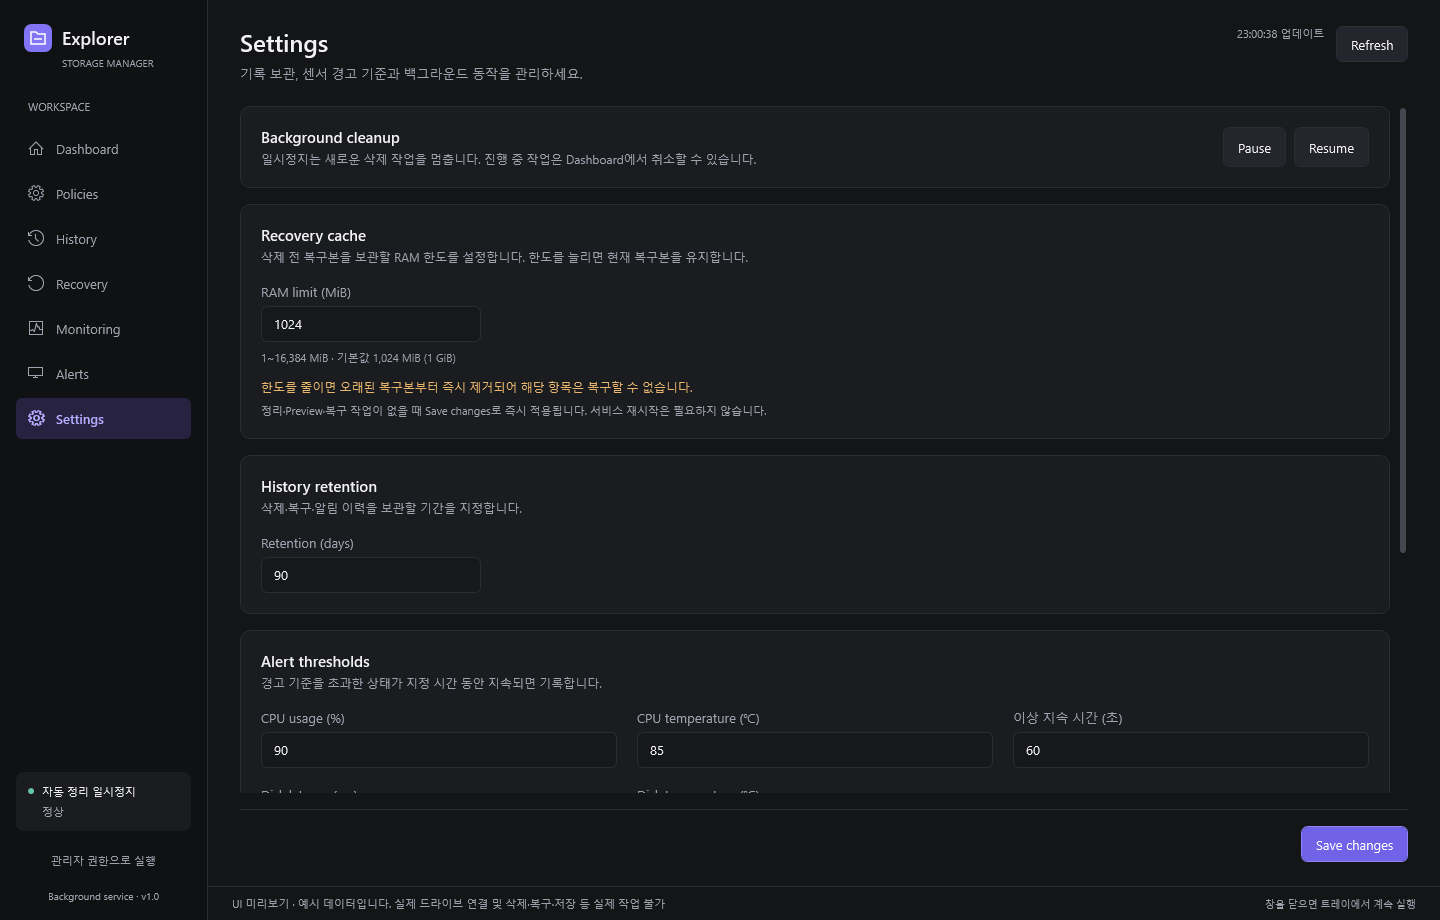
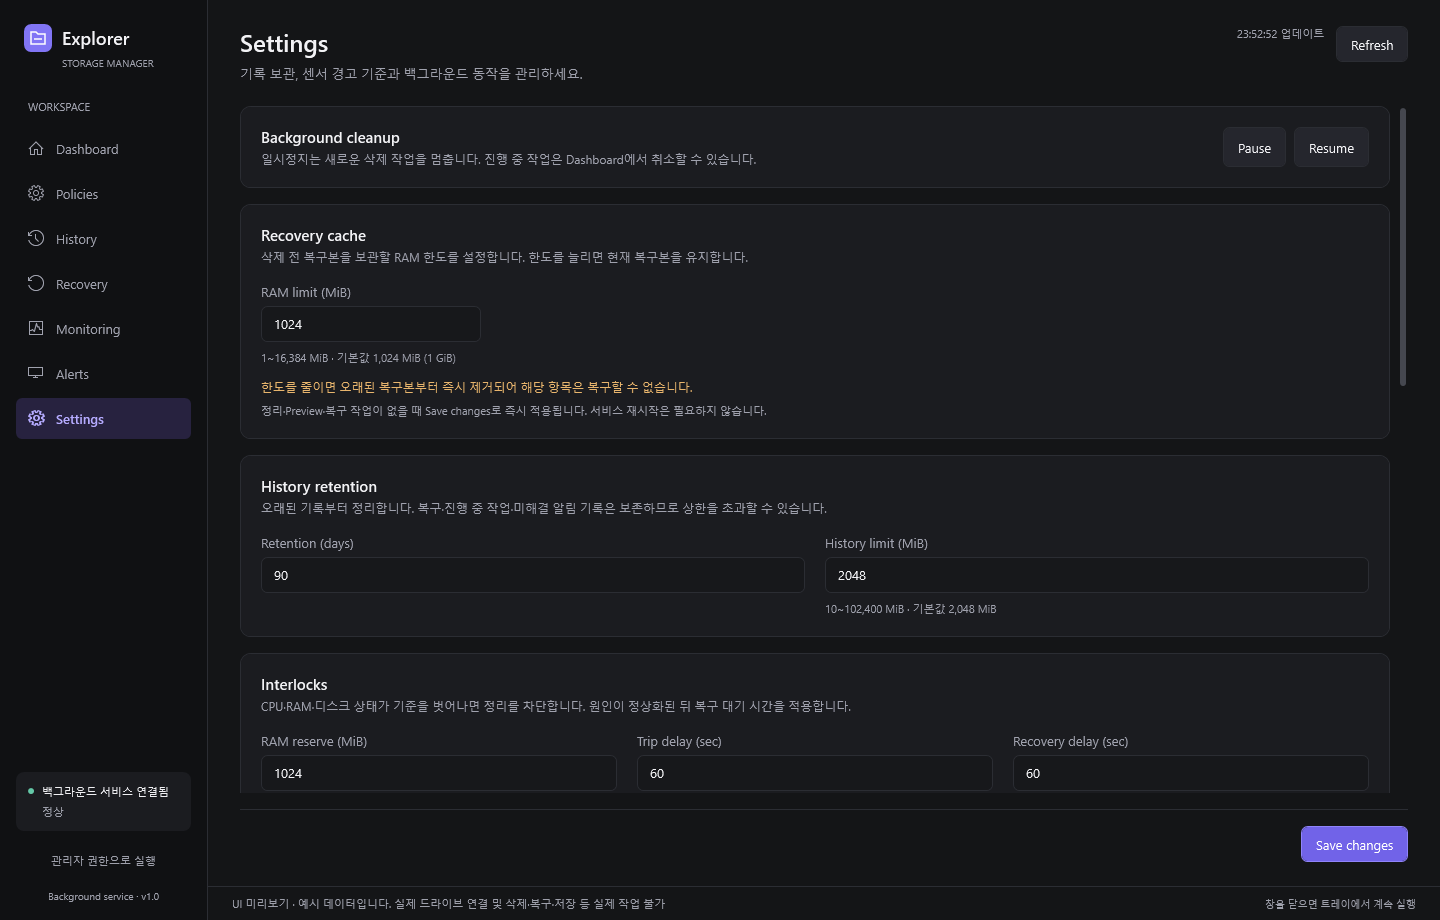
Document verified operator options, interlocks and native Windows results [skip ci]

diff --git a/docs/implementation-status.md b/docs/implementation-status.md
@@ -1,12 +1,12 @@
 # Explorer Manager 구현과 검증 현황
 
-핵심 기능, WPF, Windows Service, SensorHost, 로컬 인증 IPC, SQLite 이력, 설치/제거, CI를 구현했습니다. 솔루션의 앱·라이브러리·시험을 모두 기존 .NET Framework 4.8 프로젝트로 통일하고 .NET 8 SDK 고정과 멀티타깃을 제거했습니다. 전체 자동 시험은 112개이며 Windows에서 모두 실행합니다. .NET SDK 경로를 비활성화한 빌드, WPF 디자인 시점 평가, 설치된 서비스와 WPF 7개 화면의 실제 통신·렌더링·제거 연동 시험을 수행합니다. 최신 결과는 저장소 Actions의 해당 커밋을 기준으로 확인합니다.
+핵심 기능, WPF, Windows Service, SensorHost, 로컬 인증 IPC, SQLite 이력, 설치/제거, CI를 구현했습니다. 솔루션의 앱·라이브러리·시험을 모두 기존 .NET Framework 4.8 프로젝트로 통일하고 .NET 8 SDK 고정과 멀티타깃을 제거했습니다. 전체 자동 시험은 185개이며 Windows에서 모두 실행합니다. .NET SDK 경로를 비활성화한 빌드, WPF 디자인 시점 평가, 설치된 서비스와 WPF 7개 화면의 실제 통신·렌더링·제거 연동 시험을 수행합니다. 최신 결과는 저장소 Actions의 해당 커밋을 기준으로 확인합니다.
 
 UI는 좌측 탐색, 드라이브 카드, 용량 단위 표시, 구역별 정책 편집, 복구·알림 상세, 단위와 축이 있는 모니터링 차트로 개편했습니다. 공용 XAML 디자인 토큰과 컨트롤 템플릿을 사용하며 새로운 런타임 의존성은 없습니다. 미지원 측정값과 연결 실패를 구분하고 누락된 차트 표본은 선으로 연결하지 않습니다. 렌더 검사는 실제 서비스 연동 화면과 외부 작업을 차단한 예시 화면을 각각 1440×920 및 1120×720에서 캡처하고 바인딩 오류를 검사합니다.
 
 폴더 단위 정리는 가장 오래된 대상이 있는 Root 바로 아래 폴더를 먼저 처리하고, 목표 공간 도달 후 현재 폴더의 삭제 가능 대상과 비게 된 오래된 하위 폴더까지 처리한 뒤 중단합니다. 취소·안전 제한은 즉시 우선 적용하며 정확한 경로 재시도는 주변 항목을 처리하지 않습니다. [검증 결과](04-report/folder-cleanup.report.md).
 
-Settings에서 전역 복구 캐시를 1~16384 MiB로 지정하고 작업이 없을 때 재시작 없이 적용할 수 있습니다. 증가 시 기존 복구본을 유지하고 감소 시 초과분만 FIFO로 퇴출합니다. [검증 결과](04-report/cache-options.report.md). 추가 운영 옵션은 [우선순위 제안](01-plan/features/operator-options.plan.md)에 정리했으며 아직 구현 범위에 포함하지 않았습니다.
+Settings에서 전역 복구 캐시를 1~16384 MiB로 지정하고 작업이 없을 때 재시작 없이 적용할 수 있습니다. 증가 시 기존 복구본을 유지하고 감소 시 초과분만 FIFO로 퇴출합니다. [검증 결과](04-report/cache-options.report.md). 승인한 최소 여유 RAM·알림 방식/빈도·요일/분 스케줄·이력 용량 옵션을 모두 구현했고, 상태와 차단 사유, 회복 대기, 수동 Reset, 실행 중 앱 차단과 재시작 후 래치를 제공하는 Interlocks를 추가했습니다. [검증 결과](04-report/operator-interlocks.report.md).
 
 대상은 로컬 NTFS 일반 파일입니다. 센서 지원 범위는 장비와 권한에 따라 달라집니다. 코드 서명 인증서, 실제 운영 장비의 센서 정확도, 72시간 연속 운전 및 100만 파일·16볼륨 현장 검증은 배포 환경에서 확인할 항목입니다.
 

diff --git a/docs/04-report/operator-interlocks.report.md b/docs/04-report/operator-interlocks.report.md
@@ -1,0 +1,22 @@
+# Operator options and interlocks report
+
+사용자가 승인한 네 가지 우선순위를 모두 구현하고 내부 리소스·실행 중 앱 Interlock을 추가했습니다.
+
+| 옵션 | 제공 기능 |
+| --- | --- |
+| 최소 여유 RAM | Settings RAM reserve (MiB), 기본1024 MiB, 부족 감지 즉시 차단 |
+| 알림 방식/간격 | Popup / Tray notification / Log only, 기본300초, 여러 잠금 알림 묶기와 누적 팝업 억제, 로그/Alerts 유지 |
+| 실행 요일/시간 | 월~일 선택, HH:mm, 종료24:00, 자정 이후 시작 요일 기준, 기존 JSON 호환 |
+| 이력 용량 | 기본2048 MiB, 기간+용량 정리, 하향 저장 시 유지 작업, 진행/복구/미해결 기록 보호 |
+
+Interlocks는 CPU·CPU/디스크 온도·활성 I/O 지연의 지속 감지, 즉시 RAM 차단, 지정 앱 실행/조회 불가 차단, 측정 신선도, 디스크 Critical, 감사/캐시 설정 불일치를 표시합니다. 리소스는 안정 회복 대기와 선택적 수동 Reset을 지원하고 래치는 서비스 재시작 뒤에도 유지합니다. 누락/미지원/비정상 측정과 아직 위험한 Pending/Tripped/Recovering 조건으로 Reset할 수 없습니다.
+
+Reset과 수동 Pause/Resume는 별개입니다. Resume는 감사 오류를 해제하지 않으며, 감사 오류 Reset은 실제 durable 감사 쓰기를 확인합니다. Critical 저장장치 알림·프로세스·측정 차단도 Reset으로 우회할 수 없습니다. 감시 중인 작업의 CTS 세대를 확인하는1초 watchdog이 진행 중인 캐시 복사를 취소하고, 엔진은 부분 캐시를 제거하며 원본 보존과 차단 종료 사유를 기록합니다. 파일별 삭제 직전 검증은 그대로 유지합니다. 복구 작업은 별도 실행으로 제공합니다.
+
+모든 설정 변경은 전체 설정 스냅샷과 함께 감사 DB에 기록합니다. 리소스·앱·측정 중단·감사 오류의 차단/해제 및 운영자 Reset을 기록합니다. 보관 상한을 보호 기록 때문에 지킬 수 없으면 HistoryLimitProtected 이벤트를 남깁니다. 외부 PLC/설비 프로토콜은 연결 요구사항을 정의하지 않은 상태이며 현재 구현 범위는 내부 리소스/앱 조건입니다.
+
+검증한 코드: `75931e3b2185397dfc07e9fabba9512f20b0a61d`. [Windows CI](https://github.com/dmjeong/HardDisk-Manager/actions/runs/39874432958)에서185개 테스트를 모두 실행해 성공했습니다. .NET SDK 경로를 비활성화한 Framework4.8 빌드, 실제 NTFS 파일 보호, 운영 중 앱 차단에 의한 느린 RAM 복사 취소, 실제 SQLite DeleteIntent 오류와 감사 복구, 설정 범위/재시작, Visual Studio WPF 디자인 참조, 서비스 설치·인증 IPC·제거까지 통과했습니다. 실제/예시 데이터와 기본/최소 크기의 WPF 화면29장, 바인딩 오류0건을 확인했습니다.
+
+[Dashboard](../images/overview.png), [Settings](../images/settings.png), [운영 매뉴얼](../operations.md). 패키지는 CI ExplorerManager-win-x64 artifact와 로컬 `artifacts/ExplorerManager-win-x64.zip`에 있습니다.
+
+운영 장비별 센서 지원과 장시간·대규모 HDD 부하 검증은 기존 현장 인수 범위로 유지합니다. 중단/해제 판단은 측정 주기와 설정한 지속/회복 시간에 따릅니다.

diff --git a/docs/operations.md b/docs/operations.md
@@ -65,7 +65,7 @@ Dashboard의 Interlocks는 각 조건의 Clear/Pending/Tripped/Recovering/Awaiti
 
 Recovery delay(기본60초)는 안전한 측정이 연속으로 유지되어야 하는 시간입니다. 수동 Reset 옵션이 켜져 있으면 AwaitingReset에서 운영자가 Reset interlocks를 실행합니다. Pending 위험, 아직 진행 중인 위험, 회복 대기, 트립 후 미지원/누락 측정은 Reset할 수 없습니다. 래치는 서비스 재시작에도 유지됩니다. Pause는 별개이며 Reset은 Pause를 해제하지 않고 Resume는 리소스/프로세스/디스크 차단을 해제하지 않습니다.
 
-감사 오류는 원인을 해결하고 Reset할 때 실제 감사 기록 쓰기를 검증합니다. 저장된 캐시 크기와 실행 크기가 다르면 Reset도 거부하고 서비스 재시작을 요구합니다. Critical 디스크 알림은 별도로 원인을 확인한 뒤 Acknowledge하며 실제 위험 측정이 남으면 계속 차단됩니다. InterlockTripped/InterlockCleared/InterlocksReset 전이는 감사 DB에 기록합니다. 현재 폴더 완료 규칙보다 Interlock이 우선하며 진행 중인 RAM 복사는 취소하고 원본을 보존합니다.
+감사 오류는 원인을 해결하고 Reset할 때 실제 감사 기록 쓰기를 검증합니다. 저장된 캐시 크기와 실행 크기가 다르면 Reset도 거부하고 서비스 재시작을 요구합니다. Critical 디스크 알림은 별도로 원인을 확인한 뒤 Acknowledge하며 실제 위험 측정이 남으면 계속 차단됩니다. InterlockTripped/InterlockCleared/InterlocksReset 전이는 감사 DB에 기록합니다. 현재 폴더 완료 규칙보다 Interlock이 우선하며 진행 중인 RAM 복사는 취소하고 원본을 보존합니다. 차단으로 끝난 작업은 그 자리에서 자동 재개하지 않으며, 조건 해소 후 정책 점검 주기·쿨다운에 따라 새 작업으로 스캔합니다.
 
 앱 차단 목록은 실행 파일 이름(.exe)으로 입력합니다. 해당 이름의 프로세스가 하나라도 실행 중이면 차단하고 상태 조회 실패도 차단합니다. 프로세스를 종료하지는 않습니다. 외부 PLC/설비 프로토콜은 연결 사양을 정의하지 않았으며 현재 기능은 서비스 내부 리소스·앱 조건입니다.
 

diff --git a/docs/03-analysis/operator-interlocks.analysis.md b/docs/03-analysis/operator-interlocks.analysis.md
@@ -10,4 +10,6 @@
 | Persistence and history | Existing settings+audit transaction; history purges onlyeligible records/metrics/acknowledged alerts; recovery/intents/unresolved alerts protected and overage logged |
 | MVVM/Framework | Current Domain/Application/Contracts/Infrastructure/Client/Presentation/tests compile against net48/C#7.3; portable pure interlock/policy/presentation tests passed |
 
-Windows native runtime and service/WPF CI is pending. External PLC/device protocols have not been invented; present interlocks use internal resource/app conditions.
+Windows native runtime and service/WPF CI passed: 185/185 tests, 29 rendered WPF images, zero binding errors. External PLC/device protocols have not been invented; present interlocks use internal resource/app conditions.
+
+Verified code `75931e3b2185397dfc07e9fabba9512f20b0a61d`: [Windows CI](https://github.com/dmjeong/HardDisk-Manager/actions/runs/39874432958). Native tests include real process blocking during a throttled RAM copy, audit-write failure/recovery, no-bypass Reset/Resume, persistence and invalid option rejection.
